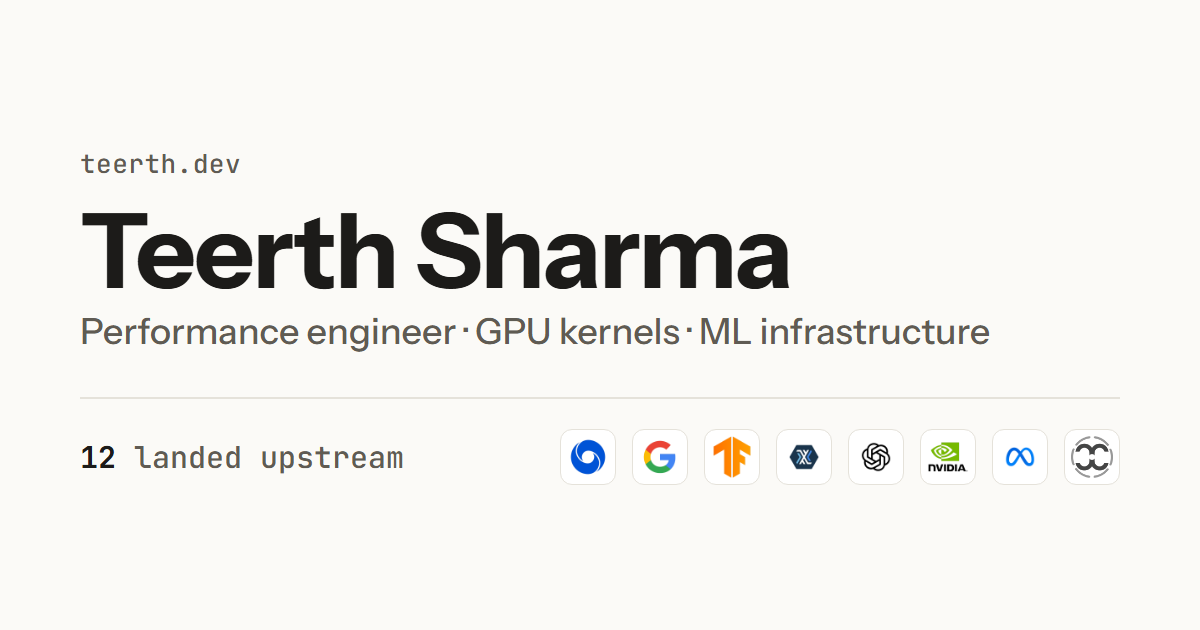
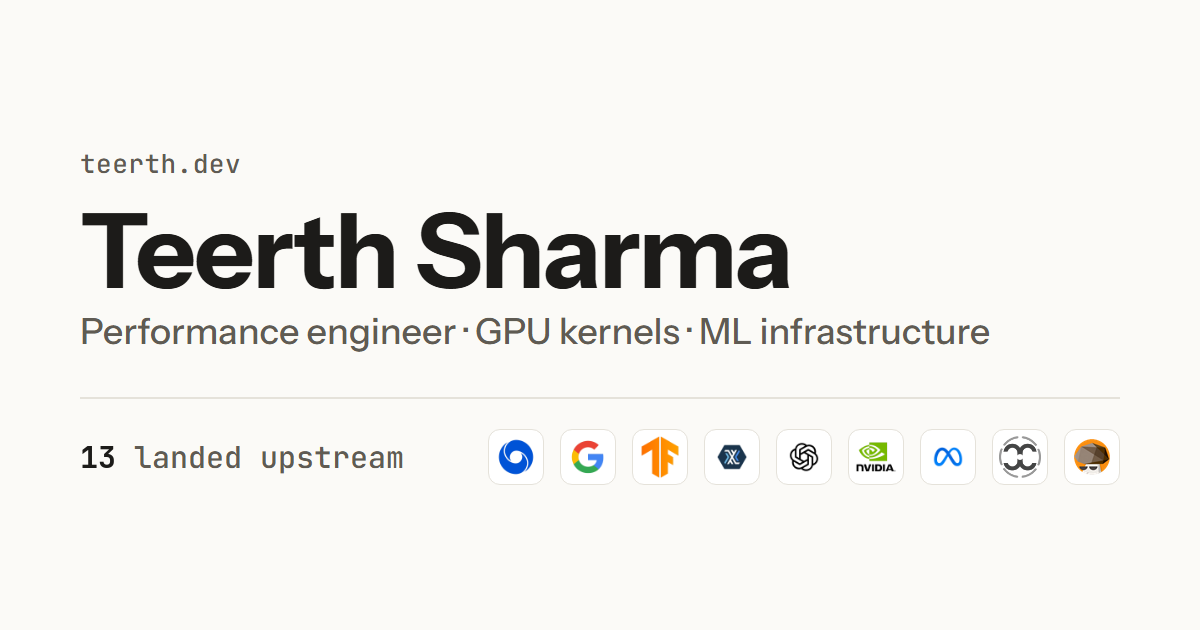
Link-preview image and alt text: 12 to 13 landed upstream
assets/og.png still read "12 landed upstream" with eight org marks. The
count is redrawn in JetBrains Mono Bold 30px, the face and size the
original was set in (best pixel match of the existing "12"), and the
mark row shifts one 72px pitch left to take a ninth tile for AnyPS5.
og:image:alt on index.html and work.html follows.

Claude-Session: https://claude.ai/code/session_01AkgAPPJMKeaTWwKGVdgn8a

diff --git a/index.html b/index.html
@@ -13,7 +13,7 @@
 <meta property="og:image" content="https://teerth.dev/assets/og.png">
 <meta property="og:image:width" content="1200">
 <meta property="og:image:height" content="630">
-<meta property="og:image:alt" content="Teerth Sharma: performance engineer, GPU kernels, ML infrastructure. 12 contributions landed upstream.">
+<meta property="og:image:alt" content="Teerth Sharma: performance engineer, GPU kernels, ML infrastructure. 13 contributions landed upstream.">
 <meta property="og:site_name" content="Teerth Sharma">
 <meta name="twitter:card" content="summary_large_image">
 <meta name="twitter:image" content="https://teerth.dev/assets/og.png">

diff --git a/work.html b/work.html
@@ -14,7 +14,7 @@
 <meta property="og:image" content="https://teerth.dev/assets/og.png">
 <meta property="og:image:width" content="1200">
 <meta property="og:image:height" content="630">
-<meta property="og:image:alt" content="Teerth Sharma: performance engineer, GPU kernels, ML infrastructure. 12 contributions landed upstream.">
+<meta property="og:image:alt" content="Teerth Sharma: performance engineer, GPU kernels, ML infrastructure. 13 contributions landed upstream.">
 <meta property="og:site_name" content="Teerth Sharma">
 <meta name="twitter:card" content="summary_large_image">
 <meta name="twitter:image" content="https://teerth.dev/assets/og.png">
